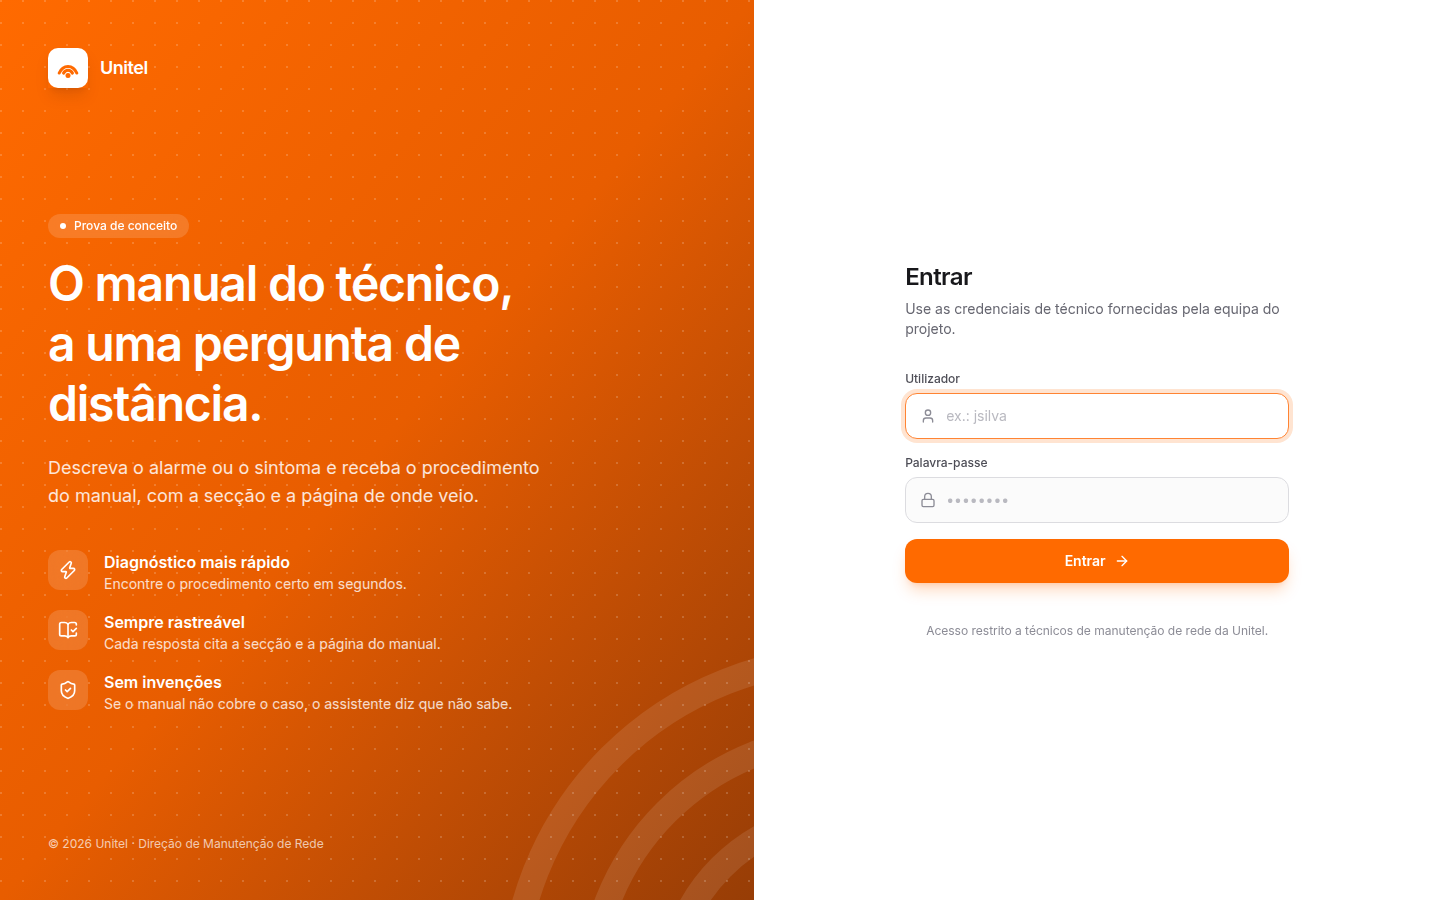
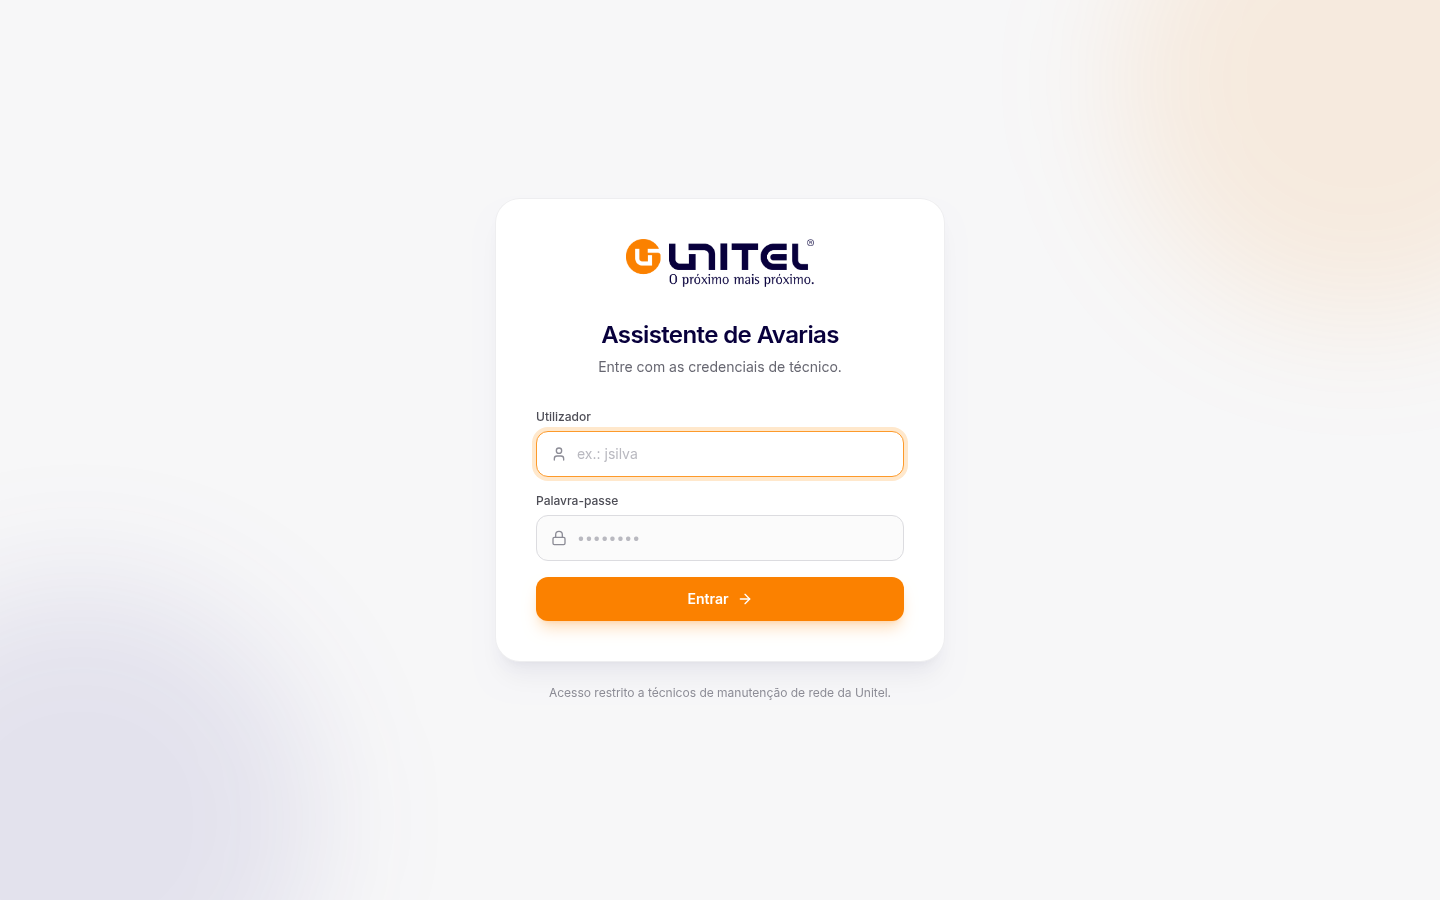
Logótipo e cores oficiais Unitel; login simplificado
- Remove o painel lateral de apresentação do login
- Adiciona logótipo Unitel (completo, branco e símbolo) e favicon
- Paleta: laranja #FB8100 e azul-marinho #08003C (barra lateral)

Claude-Session: https://claude.ai/code/session_01Xq26smR6TjrhJP4yyKf1w8

diff --git a/frontend/src/components/Login.tsx b/frontend/src/components/Login.tsx
@@ -1,7 +1,6 @@
 import { useState, type FormEvent } from "react";
-import { ArrowRight, BookOpenCheck, Loader2, Lock, ShieldCheck, User as UserIcon, Zap } from "lucide-react";
+import { ArrowRight, Loader2, Lock, User as UserIcon } from "lucide-react";
 import { api, auth, type User } from "../lib/api";
-import { Logo, LogoMark } from "./Logo";
 
 export function Login({ onLogin }: { onLogin: (u: User) => void }) {
   const [username, setUsername] = useState("");
@@ -25,61 +24,17 @@ export function Login({ onLogin }: { onLogin: (u: User) => void }) {
   }
 
   return (
-    <div className="grid min-h-full lg:grid-cols-[1.1fr_1fr]">
-      {/* Painel de marca */}
-      <aside className="relative hidden overflow-hidden bg-gradient-to-br from-brand-500 via-brand-600 to-brand-800 p-12 text-white lg:flex lg:flex-col">
-        <div className="bg-grid absolute inset-0" />
-        <svg className="absolute -right-24 -bottom-24 size-[520px] text-white/10" viewBox="0 0 200 200" fill="none" aria-hidden>
-          {[40, 70, 100, 130].map((r) => (
-            <circle key={r} cx="200" cy="200" r={r} stroke="currentColor" strokeWidth="10" />
-          ))}
-        </svg>
-        <div className="relative flex items-center gap-3">
-          <LogoMark inverse className="size-10 shadow-lg shadow-brand-900/20" />
-          <span className="text-lg font-semibold tracking-tight">Unitel</span>
-        </div>
+    <div className="relative flex min-h-full items-center justify-center overflow-hidden bg-ink-50 px-4 py-12">
+      <div className="pointer-events-none absolute -top-40 -right-40 size-[480px] rounded-full bg-brand-500/10 blur-3xl" />
+      <div className="pointer-events-none absolute -bottom-40 -left-40 size-[480px] rounded-full bg-navy-500/10 blur-3xl" />
 
-        <div className="relative my-auto max-w-lg">
-          <p className="mb-4 inline-flex items-center gap-2 rounded-full bg-white/15 px-3 py-1 text-xs font-medium backdrop-blur">
-            <span className="size-1.5 rounded-full bg-white" /> Prova de conceito
-          </p>
-          <h1 className="text-4xl leading-tight font-semibold tracking-tight xl:text-5xl">
-            O manual do técnico, <br />a uma pergunta de distância.
-          </h1>
-          <p className="mt-5 text-lg text-white/85">
-            Descreva o alarme ou o sintoma e receba o procedimento do manual, com a secção e a página de onde veio.
-          </p>
-
-          <ul className="mt-10 space-y-4">
-            {[
-              { icon: Zap, t: "Diagnóstico mais rápido", d: "Encontre o procedimento certo em segundos." },
-              { icon: BookOpenCheck, t: "Sempre rastreável", d: "Cada resposta cita a secção e a página do manual." },
-              { icon: ShieldCheck, t: "Sem invenções", d: "Se o manual não cobre o caso, o assistente diz que não sabe." },
-            ].map(({ icon: Icon, t, d }) => (
-              <li key={t} className="flex gap-4">
-                <div className="grid size-10 shrink-0 place-items-center rounded-xl bg-white/15 backdrop-blur">
-                  <Icon className="size-5" />
-                </div>
-                <div>
-                  <div className="font-semibold">{t}</div>
-                  <div className="text-sm text-white/80">{d}</div>
-                </div>
-              </li>
-            ))}
-          </ul>
-        </div>
-
-        <p className="relative text-xs text-white/70">© {new Date().getFullYear()} Unitel · Direção de Manutenção de Rede</p>
-      </aside>
-
-      {/* Formulário */}
-      <main className="flex items-center justify-center bg-white px-6 py-12">
-        <div className="w-full max-w-sm animate-fade-up">
-          <div className="mb-10 lg:hidden">
-            <Logo />
+      <main className="relative w-full max-w-md animate-fade-up">
+        <div className="rounded-3xl bg-white p-8 shadow-xl shadow-navy-950/5 ring-1 ring-ink-100 sm:p-10">
+          <img src="/unitel-logo.png" alt="Unitel" className="mx-auto h-12 w-auto" />
+          <div className="mt-8 text-center">
+            <h1 className="text-2xl font-semibold tracking-tight text-navy-950">Assistente de Avarias</h1>
+            <p className="mt-1.5 text-sm text-ink-500">Entre com as credenciais de técnico.</p>
           </div>
-          <h2 className="text-2xl font-semibold tracking-tight">Entrar</h2>
-          <p className="mt-1.5 text-sm text-ink-500">Use as credenciais de técnico fornecidas pela equipa do projeto.</p>
 
           <form onSubmit={submit} className="mt-8 space-y-4">
             <Field icon={UserIcon} label="Utilizador">
@@ -89,7 +44,7 @@ export function Login({ onLogin }: { onLogin: (u: User) => void }) {
                 value={username}
                 onChange={(e) => setUsername(e.target.value)}
                 placeholder="ex.: jsilva"
-                className="w-full bg-transparent py-3 pr-3 text-base outline-none sm:text-sm placeholder:text-ink-300"
+                className="w-full bg-transparent py-3 pr-3 text-base outline-none placeholder:text-ink-300 sm:text-sm"
                 required
               />
             </Field>
@@ -100,7 +55,7 @@ export function Login({ onLogin }: { onLogin: (u: User) => void }) {
                 value={password}
                 onChange={(e) => setPassword(e.target.value)}
                 placeholder="••••••••"
-                className="w-full bg-transparent py-3 pr-3 text-base outline-none sm:text-sm placeholder:text-ink-300"
+                className="w-full bg-transparent py-3 pr-3 text-base outline-none placeholder:text-ink-300 sm:text-sm"
                 required
               />
             </Field>
@@ -121,11 +76,8 @@ export function Login({ onLogin }: { onLogin: (u: User) => void }) {
               {!loading && <ArrowRight className="size-4 transition group-hover:translate-x-0.5" />}
             </button>
           </form>
-
-          <p className="mt-10 text-center text-xs text-ink-400">
-            Acesso restrito a técnicos de manutenção de rede da Unitel.
-          </p>
         </div>
+        <p className="mt-6 text-center text-xs text-ink-400">Acesso restrito a técnicos de manutenção de rede da Unitel.</p>
       </main>
     </div>
   );

diff --git a/frontend/src/components/Sidebar.tsx b/frontend/src/components/Sidebar.tsx
@@ -39,15 +39,15 @@ export function Sidebar(p: Props) {
 
   return (
     <>
-      {p.open && <div className="fixed inset-0 z-30 bg-ink-950/50 backdrop-blur-sm lg:hidden" onClick={p.onClose} />}
+      {p.open && <div className="fixed inset-0 z-30 bg-navy-950/50 backdrop-blur-sm lg:hidden" onClick={p.onClose} />}
       <aside
-        className={`fixed inset-y-0 left-0 z-40 flex w-72 flex-col bg-ink-950 text-ink-200 transition-transform duration-300 lg:static lg:translate-x-0 ${
+        className={`fixed inset-y-0 left-0 z-40 flex w-72 flex-col bg-navy-950 text-navy-100 transition-transform duration-300 lg:static lg:translate-x-0 ${
           p.open ? "translate-x-0" : "-translate-x-full"
         }`}
       >
-        <div className="flex items-center justify-between px-5 pt-5 pb-4">
+        <div className="flex items-start justify-between px-5 pt-6 pb-5">
           <Logo dark />
-          <button onClick={p.onClose} className="rounded-lg p-1.5 text-ink-400 hover:bg-white/5 lg:hidden" aria-label="Fechar menu">
+          <button onClick={p.onClose} className="rounded-lg p-1.5 text-navy-300 hover:bg-white/5 lg:hidden" aria-label="Fechar menu">
             <X className="size-5" />
           </button>
         </div>
@@ -71,7 +71,7 @@ export function Sidebar(p: Props) {
                 key={v}
                 onClick={() => p.onView(v)}
                 className={`flex items-center justify-center gap-1.5 rounded-lg py-2 transition ${
-                  p.view === v ? "bg-white/10 text-white" : "text-ink-400 hover:text-ink-200"
+                  p.view === v ? "bg-white/10 text-white" : "text-navy-300 hover:text-white"
                 }`}
               >
                 <Icon className="size-3.5" /> {label}
@@ -82,18 +82,18 @@ export function Sidebar(p: Props) {
 
         <div className="scroll-dark mt-4 flex-1 overflow-y-auto px-3 pb-4">
           {p.conversations.length === 0 ? (
-            <p className="px-3 py-6 text-center text-xs text-ink-500">As suas conversas aparecem aqui.</p>
+            <p className="px-3 py-6 text-center text-xs text-navy-300/80">As suas conversas aparecem aqui.</p>
           ) : (
             groupByDate(p.conversations).map(([label, items]) => (
               <div key={label} className="mb-4">
-                <div className="px-3 pb-1.5 text-[11px] font-semibold tracking-wider text-ink-500 uppercase">{label}</div>
+                <div className="px-3 pb-1.5 text-[11px] font-semibold tracking-wider text-navy-300/80 uppercase">{label}</div>
                 {items.map((c) => {
                   const active = c.id === p.activeId && p.view === "chat";
                   return (
                     <div
                       key={c.id}
                       className={`group relative flex items-center rounded-lg text-sm transition ${
-                        active ? "bg-white/10 text-white" : "text-ink-300 hover:bg-white/5 hover:text-white"
+                        active ? "bg-white/10 text-white" : "text-navy-100 hover:bg-white/5 hover:text-white"
                       }`}
                     >
                       {active && <span className="absolute inset-y-2 left-0 w-0.5 rounded-full bg-brand-500" />}
@@ -102,7 +102,7 @@ export function Sidebar(p: Props) {
                       </button>
                       <button
                         onClick={() => p.onDelete(c.id)}
-                        className="mr-1.5 rounded-md p-1 text-ink-500 opacity-0 transition group-hover:opacity-100 hover:bg-white/10 hover:text-red-400 focus:opacity-100"
+                        className="mr-1.5 rounded-md p-1 text-navy-300/80 opacity-0 transition group-hover:opacity-100 hover:bg-white/10 hover:text-red-400 focus:opacity-100"
                         aria-label="Apagar conversa"
                       >
                         <Trash2 className="size-3.5" />
@@ -121,9 +121,9 @@ export function Sidebar(p: Props) {
           </div>
           <div className="min-w-0 flex-1 leading-tight">
             <div className="truncate text-sm font-medium text-white">{p.user.name}</div>
-            <div className="truncate text-xs text-ink-500">{p.user.section ?? (p.user.role === "ADMIN" ? "Administrador" : "Técnico")}</div>
+            <div className="truncate text-xs text-navy-300/80">{p.user.section ?? (p.user.role === "ADMIN" ? "Administrador" : "Técnico")}</div>
           </div>
-          <button onClick={p.onLogout} className="rounded-lg p-2 text-ink-400 transition hover:bg-white/5 hover:text-white" aria-label="Sair" title="Sair">
+          <button onClick={p.onLogout} className="rounded-lg p-2 text-navy-300 transition hover:bg-white/5 hover:text-white" aria-label="Sair" title="Sair">
             <LogOut className="size-4" />
           </button>
         </div>

diff --git a/frontend/src/components/Logo.tsx b/frontend/src/components/Logo.tsx
@@ -1,25 +1,15 @@
-export function LogoMark({ className = "size-9", inverse = false }: { className?: string; inverse?: boolean }) {
-  const bg = inverse ? "#fff" : "var(--color-brand-500)";
-  const fg = inverse ? "var(--color-brand-500)" : "#fff";
-  return (
-    <svg viewBox="0 0 64 64" className={className} aria-hidden>
-      <rect width="64" height="64" rx="16" fill={bg} />
-      <path d="M18 40c6-14 22-14 28 0" fill="none" stroke={fg} strokeWidth="5" strokeLinecap="round" />
-      <path d="M25 40c3-6 11-6 14 0" fill="none" stroke={fg} strokeWidth="5" strokeLinecap="round" />
-      <circle cx="32" cy="44" r="4" fill={fg} />
-    </svg>
-  );
+/** Símbolo Unitel (círculo laranja). */
+export function LogoMark({ className = "size-9" }: { className?: string }) {
+  return <img src="/unitel-simbolo.png" alt="" aria-hidden className={`${className} shrink-0 rounded-full object-contain`} />;
 }
 
+/** Logótipo Unitel completo + nome da aplicação. `dark` = sobre fundo azul-marinho. */
 export function Logo({ dark = false }: { dark?: boolean }) {
   return (
-    <div className="flex items-center gap-3">
-      <LogoMark />
-      <div className="leading-tight">
-        <div className={`text-[15px] font-semibold tracking-tight ${dark ? "text-white" : "text-ink-900"}`}>
-          Assistente de Avarias
-        </div>
-        <div className="text-xs font-medium text-brand-500">Unitel · Manutenção de Rede</div>
+    <div className="flex flex-col gap-2">
+      <img src={dark ? "/unitel-logo-branco.png" : "/unitel-logo.png"} alt="Unitel" className="h-10 w-auto self-start" />
+      <div className={`text-xs font-semibold tracking-wider uppercase ${dark ? "text-brand-400" : "text-brand-600"}`}>
+        Assistente de Avarias
       </div>
     </div>
   );

diff --git a/frontend/src/index.css b/frontend/src/index.css
@@ -2,22 +2,34 @@
 @plugin "@tailwindcss/typography";
 
 /*
- * Tokens de marca (Unitel). Ajustar aqui se o manual de marca indicar outros valores.
- * brand = laranja Unitel · ink = grafite para texto e superfícies escuras.
+ * Tokens de marca Unitel (amostrados do logótipo oficial):
+ * brand = laranja #FB8100 · navy = azul-marinho #08003C · ink = cinzentos neutros.
  */
 @theme {
   --font-sans: "Inter Variable", ui-sans-serif, system-ui, sans-serif;
 
-  --color-brand-50: #fff4ec;
-  --color-brand-100: #ffe4d1;
-  --color-brand-200: #ffc5a0;
-  --color-brand-300: #ff9f66;
-  --color-brand-400: #ff8433;
-  --color-brand-500: #ff6a00;
-  --color-brand-600: #e85d00;
-  --color-brand-700: #c04b00;
-  --color-brand-800: #973d06;
-  --color-brand-900: #7a340a;
+  --color-brand-50: #fff6eb;
+  --color-brand-100: #ffe8cc;
+  --color-brand-200: #ffcf94;
+  --color-brand-300: #ffb257;
+  --color-brand-400: #fd9a2b;
+  --color-brand-500: #fb8100;
+  --color-brand-600: #dc6f00;
+  --color-brand-700: #b35700;
+  --color-brand-800: #8f4508;
+  --color-brand-900: #75390b;
+
+  --color-navy-50: #f0effa;
+  --color-navy-100: #dcdaf2;
+  --color-navy-200: #b6b1e3;
+  --color-navy-300: #8a82cf;
+  --color-navy-400: #5f55b5;
+  --color-navy-500: #3d3296;
+  --color-navy-600: #2a2078;
+  --color-navy-700: #1c145e;
+  --color-navy-800: #120b4b;
+  --color-navy-900: #0c0642;
+  --color-navy-950: #08003c;
 
   --color-ink-50: #f7f7f8;
   --color-ink-100: #eeeef0;

diff --git a/frontend/src/components/EmptyState.tsx b/frontend/src/components/EmptyState.tsx
@@ -12,16 +12,10 @@ export function EmptyState({ name, onPick }: { name: string; onPick: (q: string)
   return (
     <div className="mx-auto flex w-full max-w-3xl animate-fade-up flex-col items-center px-4 pt-[8vh] text-center">
       <div className="relative mb-6">
-        <div className="absolute inset-0 animate-pulse rounded-full bg-brand-500/20 blur-2xl" />
-        <div className="relative grid size-16 place-items-center rounded-2xl bg-gradient-to-br from-brand-400 to-brand-600 shadow-xl shadow-brand-500/30">
-          <svg viewBox="0 0 64 64" className="size-10" aria-hidden>
-            <path d="M14 38c7-17 29-17 36 0" fill="none" stroke="#fff" strokeWidth="5" strokeLinecap="round" />
-            <path d="M23 38c4-8 14-8 18 0" fill="none" stroke="#fff" strokeWidth="5" strokeLinecap="round" />
-            <circle cx="32" cy="43" r="4.5" fill="#fff" />
-          </svg>
-        </div>
+        <div className="absolute inset-0 animate-pulse rounded-full bg-brand-500/25 blur-2xl" />
+        <img src="/unitel-simbolo.png" alt="" aria-hidden className="relative size-16 drop-shadow-lg" />
       </div>
-      <h1 className="text-3xl font-semibold tracking-tight text-ink-900 sm:text-4xl">
+      <h1 className="text-3xl font-semibold tracking-tight text-navy-950 sm:text-4xl">
         Olá, {first}. <span className="text-brand-500">Qual é a avaria?</span>
       </h1>
       <p className="mt-3 max-w-xl text-ink-500">

diff --git a/frontend/src/components/MessageView.tsx b/frontend/src/components/MessageView.tsx
@@ -18,7 +18,7 @@ export function MessageView({ m, onRated }: { m: UiMessage; onRated?: (rating: n
   if (m.role === "USER") {
     return (
       <div className="flex animate-fade-up justify-end">
-        <div className="max-w-[85%] rounded-2xl rounded-br-md bg-ink-900 px-4 py-3 text-[15px] leading-relaxed whitespace-pre-wrap text-white shadow-sm">
+        <div className="max-w-[85%] rounded-2xl rounded-br-md bg-navy-950 px-4 py-3 text-[15px] leading-relaxed whitespace-pre-wrap text-white shadow-sm">
           {m.content}
         </div>
       </div>
@@ -27,7 +27,7 @@ export function MessageView({ m, onRated }: { m: UiMessage; onRated?: (rating: n
 
   return (
     <div className="flex animate-fade-up gap-3 sm:gap-4">
-      <LogoMark className="mt-0.5 size-8 shrink-0 shadow-md shadow-brand-500/20" />
+      <LogoMark className="mt-0.5 size-8 shadow-md shadow-brand-500/20" />
       <div className="min-w-0 flex-1">
         <div className="rounded-2xl rounded-tl-md bg-white px-5 py-4 shadow-sm ring-1 ring-ink-100">
           {m.content ? (

diff --git a/frontend/src/components/SearchView.tsx b/frontend/src/components/SearchView.tsx
@@ -61,7 +61,7 @@ export function SearchView({ category }: { category: string }) {
           {results?.map((r, i) => (
             <li key={r.id} className="animate-fade-up rounded-2xl bg-white p-4 shadow-sm ring-1 ring-ink-100" style={{ animationDelay: `${i * 40}ms` }}>
               <div className="flex items-start gap-3">
-                <span className="grid size-7 shrink-0 place-items-center rounded-lg bg-ink-900 text-xs font-bold text-white">{i + 1}</span>
+                <span className="grid size-7 shrink-0 place-items-center rounded-lg bg-navy-950 text-xs font-bold text-white">{i + 1}</span>
                 <div className="min-w-0 flex-1">
                   <div className="flex flex-wrap items-center gap-x-3 gap-y-1">
                     <span className="font-semibold text-ink-900">{r.section}</span>

diff --git a/frontend/src/components/Composer.tsx b/frontend/src/components/Composer.tsx
@@ -46,7 +46,7 @@ export function Composer({ busy, onSend, onStop, autoFocus }: Props) {
           className="scroll-thin max-h-[200px] flex-1 resize-none bg-transparent px-3 py-2.5 text-base outline-none sm:text-[15px] placeholder:text-ink-400"
         />
         {busy ? (
-          <button onClick={onStop} className="grid size-10 shrink-0 place-items-center rounded-xl bg-ink-900 text-white transition hover:bg-ink-700" aria-label="Parar">
+          <button onClick={onStop} className="grid size-10 shrink-0 place-items-center rounded-xl bg-navy-950 text-white transition hover:bg-navy-800" aria-label="Parar">
             <Square className="size-3.5" fill="currentColor" />
           </button>
         ) : (

diff --git a/frontend/index.html b/frontend/index.html
@@ -3,8 +3,8 @@
   <head>
     <meta charset="UTF-8" />
     <meta name="viewport" content="width=device-width, initial-scale=1.0, viewport-fit=cover" />
-    <meta name="theme-color" content="#ff6a00" />
-    <link rel="icon" type="image/svg+xml" href="/favicon.svg" />
+    <meta name="theme-color" content="#08003c" />
+    <link rel="icon" type="image/png" href="/favicon.png" />
     <title>Assistente de Avarias · Unitel</title>
   </head>
   <body>

diff --git a/README.md b/README.md
@@ -65,6 +65,6 @@ pm2 start deploy/ecosystem.config.cjs
 ```
 Nginx: ver `deploy/nginx.conf` (inclui `proxy_buffering off` para o streaming). As fontes são servidas localmente (sem Google Fonts), porque a rede Unitel bloqueia domínios externos.
 
-## Cores
+## Identidade visual
 
-Tokens de marca em `frontend/src/index.css` (`--color-brand-*` laranja, `--color-ink-*` grafite). Ajustar aos valores oficiais do manual de marca Unitel.
+Logótipo Unitel em `frontend/public/` (completo, versão branca e símbolo). Cores amostradas do logótipo, em `frontend/src/index.css`: laranja `#FB8100` (`--color-brand-*`) e azul-marinho `#08003C` (`--color-navy-*`).
